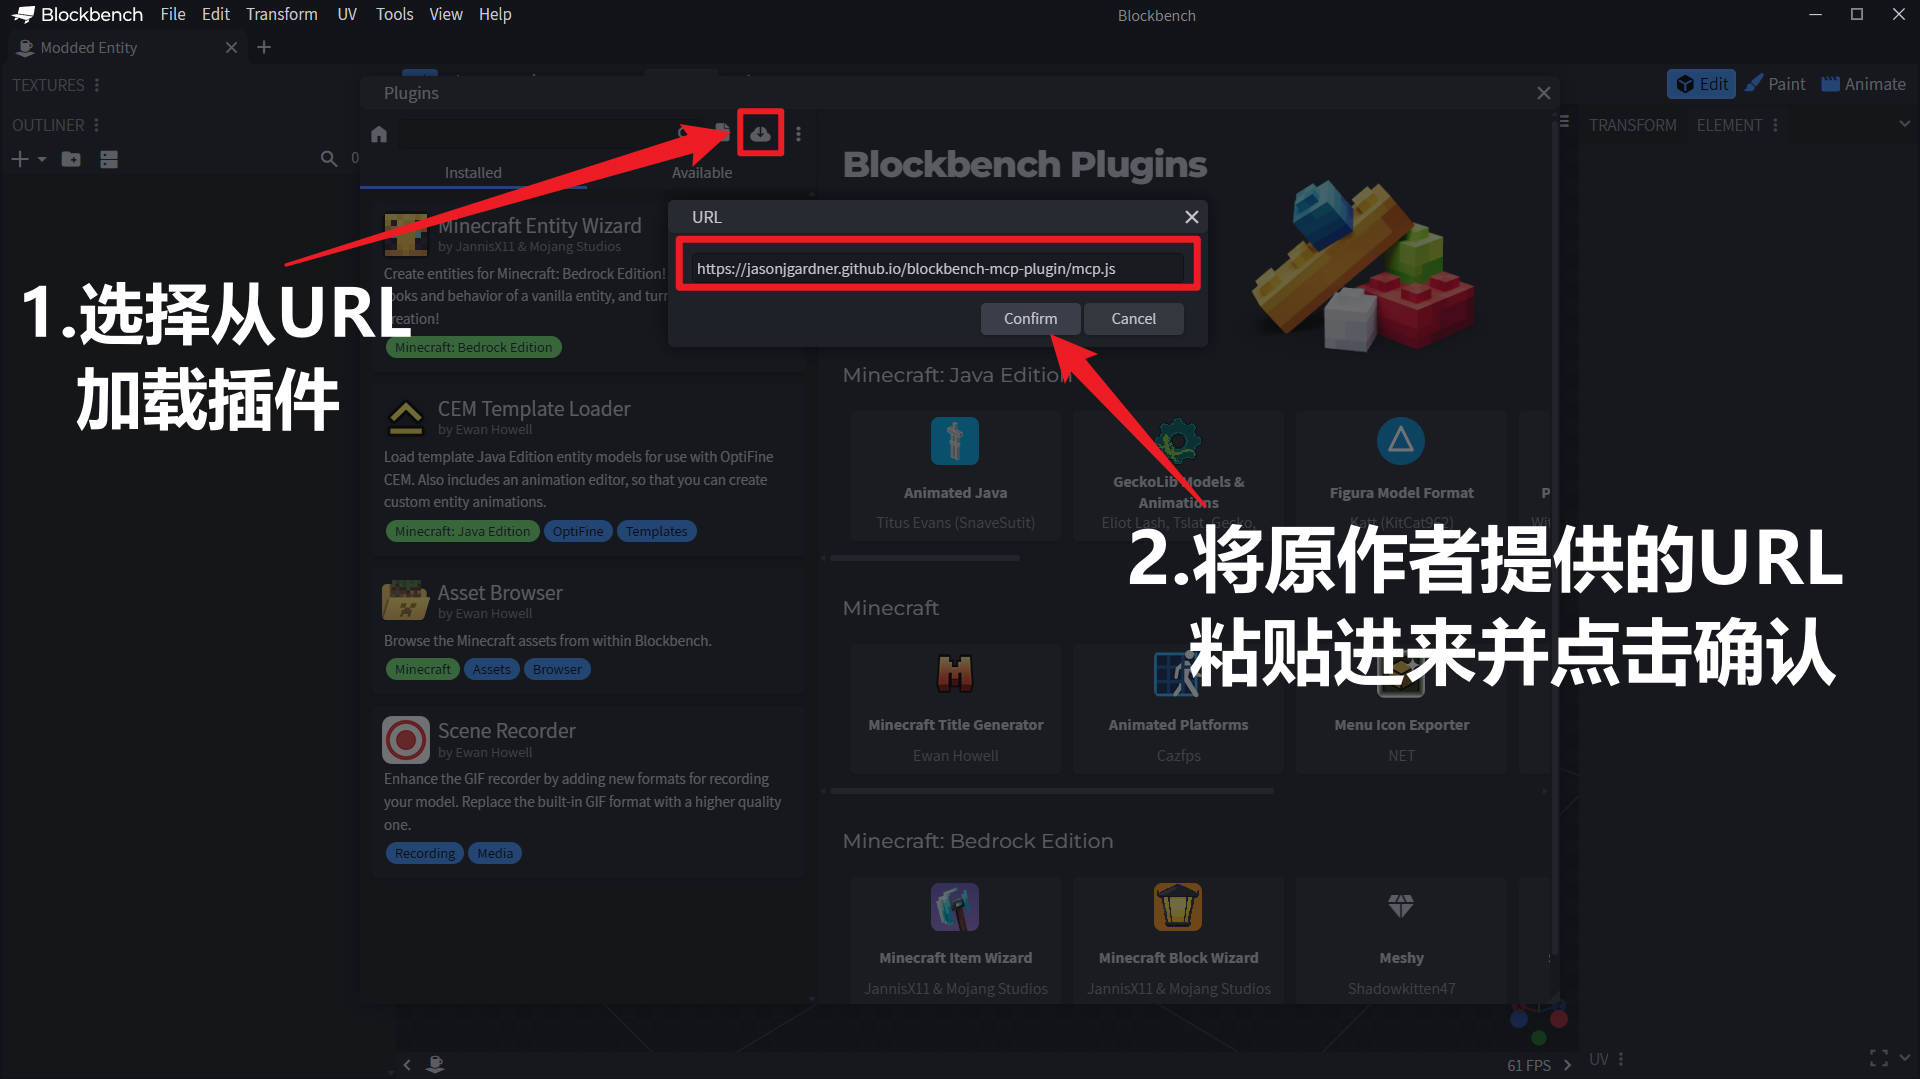
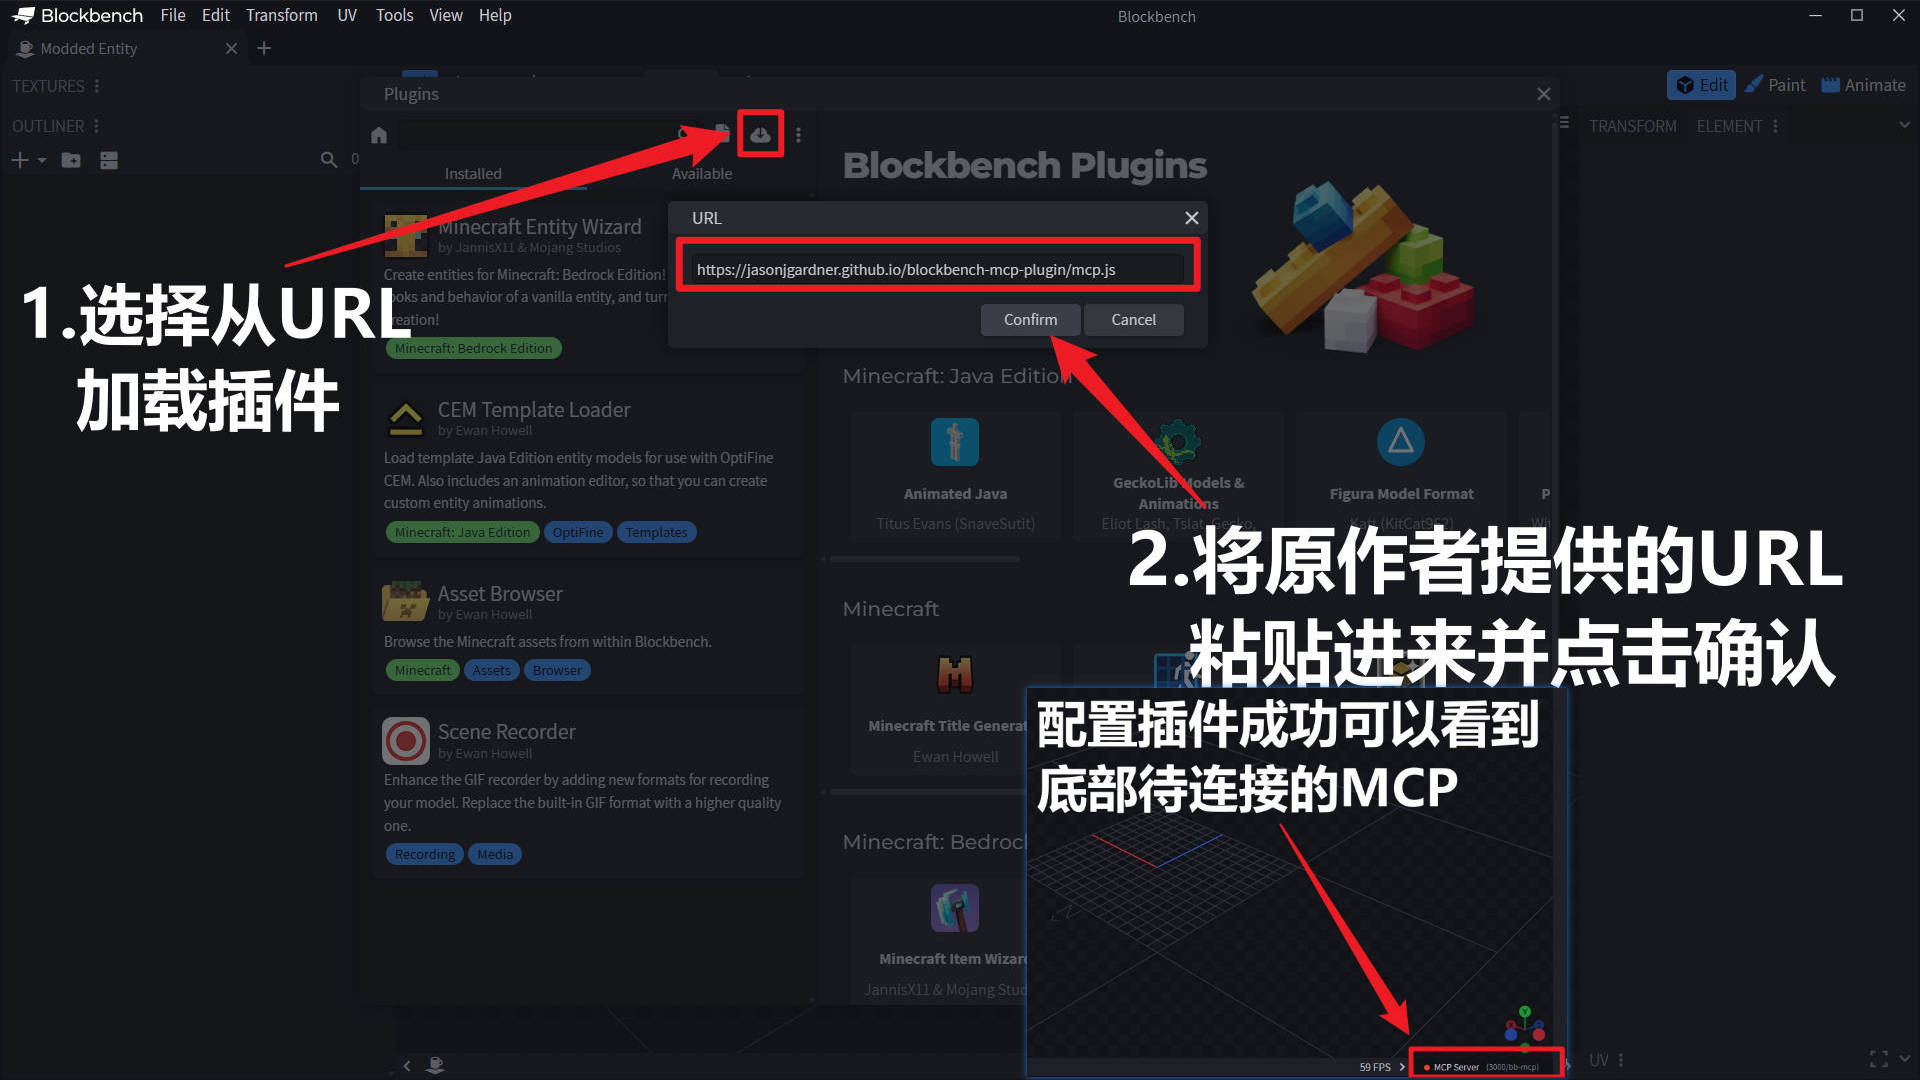
feat: 更新MCP步骤图

diff --git a/model.html b/model.html
@@ -141,84 +141,84 @@
 
                 <div class="step-grid" aria-label="MCP 配置步骤图">
                     <article class="step-card">
-                        <button type="button" data-preview-src="assets/images/model-mcp/step-0.jpg" data-preview-title="01 加载 Blockbench 插件" data-preview-copy-target="copyStepPlugin">
-                            <img src="assets/images/model-mcp/step-0.jpg" alt="加载 Blockbench MCP 插件">
+                        <button type="button" data-preview-src="assets/images/model-mcp/step-0.jpg?v=20260517a" data-preview-title="01 从 URL 加载 Blockbench 插件" data-preview-copy-target="copyStepPlugin">
+                            <img src="assets/images/model-mcp/step-0.jpg?v=20260517a" alt="加载 Blockbench MCP 插件">
                         </button>
                         <span>01</span>
                         <h3 data-i18n="steps.one.title">从 URL 加载插件</h3>
-                        <p data-i18n="steps.one.desc">Blockbench 里打开 Plugins，粘贴原作者提供的插件 URL。</p>
+                        <p data-i18n="steps.one.desc">Blockbench 里从 URL 加载插件，粘贴原作者提供的地址并确认。</p>
                     </article>
                     <article class="step-card">
-                        <button type="button" data-preview-src="assets/images/model-mcp/step-1.jpg" data-preview-title="02 确认插件启动">
-                            <img src="assets/images/model-mcp/step-1.jpg" alt="Blockbench MCP 插件状态">
+                        <button type="button" data-preview-src="assets/images/model-mcp/step-1.jpg?v=20260517a" data-preview-title="02 下载 Trae 国际版">
+                            <img src="assets/images/model-mcp/step-1.jpg?v=20260517a" alt="Trae 国际版下载页面">
                         </button>
                         <span>02</span>
-                        <h3 data-i18n="steps.two.title">看到 MCP 状态</h3>
-                        <p data-i18n="steps.two.desc">插件加载后，Blockbench 底部会出现 MCP 状态。</p>
+                        <h3 data-i18n="steps.two.title">下载 Trae 国际版</h3>
+                        <p data-i18n="steps.two.desc">进入 Trae 官网，点击 Download SOLO Desktop 下载桌面端。</p>
                     </article>
                     <article class="step-card">
-                        <button type="button" data-preview-src="assets/images/model-mcp/step-2.jpg" data-preview-title="03 下载 Node.js">
-                            <img src="assets/images/model-mcp/step-2.jpg" alt="Node.js 下载页面">
+                        <button type="button" data-preview-src="assets/images/model-mcp/step-2.jpg?v=20260517a" data-preview-title="03 下载 Node.js">
+                            <img src="assets/images/model-mcp/step-2.jpg?v=20260517a" alt="Node.js 下载页面">
                         </button>
                         <span>03</span>
                         <h3 data-i18n="steps.three.title">下载安装 Node.js</h3>
-                        <p data-i18n="steps.three.desc">选择 Windows Installer，不要选需要手动配置的压缩包。</p>
+                        <p data-i18n="steps.three.desc">下载 Windows Installer，双击安装时一路点击下一步即可。</p>
                     </article>
                     <article class="step-card">
-                        <button type="button" data-preview-src="assets/images/model-mcp/step-2-5.jpg" data-preview-title="04 下载 Trae">
-                            <img src="assets/images/model-mcp/step-2-5.jpg" alt="Trae 下载页面">
+                        <button type="button" data-preview-src="assets/images/model-mcp/step-2-5.jpg?v=20260517a" data-preview-title="04 登录 Trae 并切到 Code">
+                            <img src="assets/images/model-mcp/step-2-5.jpg?v=20260517a" alt="登录 Trae 并切换到 Code">
                         </button>
                         <span>04</span>
-                        <h3 data-i18n="steps.four.title">下载安装 Trae</h3>
-                        <p data-i18n="steps.four.desc">优先国际版；不方便就用国内版下载入口。</p>
+                        <h3 data-i18n="steps.four.title">登录并切到 Code</h3>
+                        <p data-i18n="steps.four.desc">打开 Trae 后先登录账号，再点击左上角切换到 Code 模式。</p>
                     </article>
                     <article class="step-card">
-                        <button type="button" data-preview-src="assets/images/model-mcp/step-3.jpg" data-preview-title="05 验证 node npm npx" data-preview-copy-target="copyStepNode">
-                            <img src="assets/images/model-mcp/step-3.jpg" alt="验证 node npm npx 命令">
+                        <button type="button" data-preview-src="assets/images/model-mcp/step-3.jpg?v=20260517a" data-preview-title="05 打开项目文件夹">
+                            <img src="assets/images/model-mcp/step-3.jpg?v=20260517a" alt="Trae 打开项目文件夹">
                         </button>
                         <span>05</span>
-                        <h3 data-i18n="steps.five.title">验证三个命令</h3>
-                        <p data-i18n="steps.five.desc">三个都有版本号，才说明 Node 安装成功。</p>
+                        <h3 data-i18n="steps.five.title">打开项目文件夹</h3>
+                        <p data-i18n="steps.five.desc">点击选择文件夹，打开你的懒人包或模组项目目录。</p>
                     </article>
                     <article class="step-card">
-                        <button type="button" data-preview-src="assets/images/model-mcp/step-4.jpg" data-preview-title="06 打开 Trae MCP 设置">
-                            <img src="assets/images/model-mcp/step-4.jpg" alt="Trae MCP 设置入口">
+                        <button type="button" data-preview-src="assets/images/model-mcp/step-4.jpg?v=20260517a" data-preview-title="06 验证 node npm npx" data-preview-copy-target="copyStepNode">
+                            <img src="assets/images/model-mcp/step-4.jpg?v=20260517a" alt="验证 node npm npx 命令">
                         </button>
                         <span>06</span>
-                        <h3 data-i18n="steps.six.title">打开 Trae MCP 设置</h3>
-                        <p data-i18n="steps.six.desc">进入设置里的 MCP Servers 区域。</p>
+                        <h3 data-i18n="steps.six.title">验证三个命令</h3>
+                        <p data-i18n="steps.six.desc">在终端输入 node -v、npm -v、npx -v，三个都输出版本号就成功。</p>
                     </article>
                     <article class="step-card">
-                        <button type="button" data-preview-src="assets/images/model-mcp/step-5.jpg" data-preview-title="07 进入手动配置">
-                            <img src="assets/images/model-mcp/step-5.jpg" alt="Trae MCP 手动配置">
+                        <button type="button" data-preview-src="assets/images/model-mcp/step-5.jpg?v=20260517a" data-preview-title="07 进入 MCP 手动配置">
+                            <img src="assets/images/model-mcp/step-5.jpg?v=20260517a" alt="Trae MCP 设置与手动配置入口">
                         </button>
                         <span>07</span>
-                        <h3 data-i18n="steps.seven.title">选择手动配置</h3>
-                        <p data-i18n="steps.seven.desc">不要乱填，后面直接粘贴配置文件。</p>
+                        <h3 data-i18n="steps.seven.title">进入 MCP 手动配置</h3>
+                        <p data-i18n="steps.seven.desc">打开设置里的 MCP 页面，点击添加并选择手动配置。</p>
                     </article>
                     <article class="step-card">
-                        <button type="button" data-preview-src="assets/images/model-mcp/step-6.jpg" data-preview-title="08 粘贴 MCP 配置" data-preview-copy-target="copyStepMcp">
-                            <img src="assets/images/model-mcp/step-6.jpg" alt="粘贴 MCP JSON 配置">
+                        <button type="button" data-preview-src="assets/images/model-mcp/step-6.jpg?v=20260517a" data-preview-title="08 粘贴 MCP 配置" data-preview-copy-target="copyStepMcp">
+                            <img src="assets/images/model-mcp/step-6.jpg?v=20260517a" alt="粘贴 MCP JSON 配置">
                         </button>
                         <span>08</span>
                         <h3 data-i18n="steps.eight.title">粘贴配置并确认</h3>
-                        <p data-i18n="steps.eight.desc">点开这张图后，直接复制配置内容。</p>
+                        <p data-i18n="steps.eight.desc">把 MCP JSON 全部粘贴进输入框，检查无误后点击确认。</p>
                     </article>
                     <article class="step-card">
-                        <button type="button" data-preview-src="assets/images/model-mcp/step-7.png" data-preview-title="09 让 Trae 访问 Blockbench" data-preview-copy-target="copyStepVerify">
-                            <img src="assets/images/model-mcp/step-7.png" alt="让 Trae 验证访问 Blockbench">
+                        <button type="button" data-preview-src="assets/images/model-mcp/step-7.png?v=20260517a" data-preview-title="09 确认 MCP 配置成功">
+                            <img src="assets/images/model-mcp/step-7.png?v=20260517a" alt="Trae MCP 配置成功">
                         </button>
                         <span>09</span>
-                        <h3 data-i18n="steps.nine.title">验证连接</h3>
-                        <p data-i18n="steps.nine.desc">先让它放一个方块，不要直接做复杂模型。</p>
+                        <h3 data-i18n="steps.nine.title">看到绿色勾</h3>
+                        <p data-i18n="steps.nine.desc">blockbench 后面出现绿色勾就说明配置成功，失败就点重试。</p>
                     </article>
                     <article class="step-card">
-                        <button type="button" data-preview-src="assets/images/model-mcp/step-8.jpg" data-preview-title="10 方块出现在 Blockbench">
-                            <img src="assets/images/model-mcp/step-8.jpg" alt="Blockbench 出现方块">
+                        <button type="button" data-preview-src="assets/images/model-mcp/step-8.jpg?v=20260517a" data-preview-title="10 重启 Trae 后验证连接" data-preview-copy-target="copyStepVerify">
+                            <img src="assets/images/model-mcp/step-8.jpg?v=20260517a" alt="重启 Trae 后让 Trae 验证访问 Blockbench">
                         </button>
                         <span>10</span>
-                        <h3 data-i18n="steps.ten.title">方块出现就成功</h3>
-                        <p data-i18n="steps.ten.desc">看到方块后，再开始让 AI 做你的模型。</p>
+                        <h3 data-i18n="steps.ten.title">重启后验证连接</h3>
+                        <p data-i18n="steps.ten.desc">建议先关闭并重新打开 Trae，再让它通过 MCP 放一个方块。</p>
                     </article>
                 </div>
 
@@ -352,6 +352,6 @@ npx -v</pre>
     <div class="toast" id="toast" aria-live="polite"></div>
 
     <script src="js/snail-gltf.js?v=20260516d"></script>
-    <script src="js/model.js?v=20260516g"></script>
+    <script src="js/model.js?v=20260517a"></script>
 </body>
 </html>

diff --git a/js/model.js b/js/model.js
@@ -47,25 +47,25 @@ const MODEL_I18N = {
         "commands.config.title": "Trae MCP 配置",
         "common.copy": "复制",
         "steps.one.title": "从 URL 加载插件",
-        "steps.one.desc": "Blockbench 里打开 Plugins，粘贴原作者提供的插件 URL。",
-        "steps.two.title": "看到 MCP 状态",
-        "steps.two.desc": "插件加载后，Blockbench 底部会出现 MCP 状态。",
+        "steps.one.desc": "Blockbench 里从 URL 加载插件，粘贴原作者提供的地址并确认。",
+        "steps.two.title": "下载 Trae 国际版",
+        "steps.two.desc": "进入 Trae 官网，点击 Download SOLO Desktop 下载桌面端。",
         "steps.three.title": "下载安装 Node.js",
-        "steps.three.desc": "选择 Windows Installer，不要选需要手动配置的压缩包。",
-        "steps.four.title": "下载安装 Trae",
-        "steps.four.desc": "优先国际版；不方便就用国内版下载入口。",
-        "steps.five.title": "验证三个命令",
-        "steps.five.desc": "三个都有版本号，才说明 Node 安装成功。",
-        "steps.six.title": "打开 Trae MCP 设置",
-        "steps.six.desc": "进入设置里的 MCP Servers 区域。",
-        "steps.seven.title": "选择手动配置",
-        "steps.seven.desc": "不要乱填，后面直接粘贴配置文件。",
+        "steps.three.desc": "下载 Windows Installer，双击安装时一路点击下一步即可。",
+        "steps.four.title": "登录并切到 Code",
+        "steps.four.desc": "打开 Trae 后先登录账号，再点击左上角切换到 Code 模式。",
+        "steps.five.title": "打开项目文件夹",
+        "steps.five.desc": "点击选择文件夹，打开你的懒人包或模组项目目录。",
+        "steps.six.title": "验证三个命令",
+        "steps.six.desc": "在终端输入 node -v、npm -v、npx -v，三个都输出版本号就成功。",
+        "steps.seven.title": "进入 MCP 手动配置",
+        "steps.seven.desc": "打开设置里的 MCP 页面，点击添加并选择手动配置。",
         "steps.eight.title": "粘贴配置并确认",
-        "steps.eight.desc": "点开这张图后，直接复制配置内容。",
-        "steps.nine.title": "验证连接",
-        "steps.nine.desc": "先让它放一个方块，不要直接做复杂模型。",
-        "steps.ten.title": "方块出现就成功",
-        "steps.ten.desc": "看到方块后，再开始让 AI 做你的模型。",
+        "steps.eight.desc": "把 MCP JSON 全部粘贴进输入框，检查无误后点击确认。",
+        "steps.nine.title": "看到绿色勾",
+        "steps.nine.desc": "blockbench 后面出现绿色勾就说明配置成功，失败就点重试。",
+        "steps.ten.title": "重启后验证连接",
+        "steps.ten.desc": "建议先关闭并重新打开 Trae，再让它通过 MCP 放一个方块。",
         "verify.kicker": "连接验证",
         "verify.title": "验证 AI 是否连上 Blockbench",
         "verify.desc": "方块能被放进 Blockbench，说明连接链路是通的。",
@@ -148,25 +148,25 @@ const MODEL_I18N = {
         "commands.config.title": "Trae MCP 配置",
         "common.copy": "複製",
         "steps.one.title": "從 URL 載入插件",
-        "steps.one.desc": "Blockbench 裡打開 Plugins，貼上原作者提供的插件 URL。",
-        "steps.two.title": "看到 MCP 狀態",
-        "steps.two.desc": "插件載入後，Blockbench 底部會出現 MCP 狀態。",
+        "steps.one.desc": "Blockbench 裡從 URL 載入插件，貼上原作者提供的地址並確認。",
+        "steps.two.title": "下載 Trae 國際版",
+        "steps.two.desc": "進入 Trae 官網，點擊 Download SOLO Desktop 下載桌面端。",
         "steps.three.title": "下載安裝 Node.js",
-        "steps.three.desc": "選擇 Windows Installer，不要選需要手動配置的壓縮包。",
-        "steps.four.title": "下載安裝 Trae",
-        "steps.four.desc": "優先國際版；不方便就用國內版下載入口。",
-        "steps.five.title": "驗證三個命令",
-        "steps.five.desc": "三個都有版本號，才說明 Node 安裝成功。",
-        "steps.six.title": "打開 Trae MCP 設置",
-        "steps.six.desc": "進入設置裡的 MCP Servers 區域。",
-        "steps.seven.title": "選擇手動配置",
-        "steps.seven.desc": "不要亂填，後面直接貼上配置文件。",
+        "steps.three.desc": "下載 Windows Installer，雙擊安裝時一路點擊下一步即可。",
+        "steps.four.title": "登入並切到 Code",
+        "steps.four.desc": "打開 Trae 後先登入帳號，再點擊左上角切換到 Code 模式。",
+        "steps.five.title": "打開項目文件夾",
+        "steps.five.desc": "點擊選擇文件夾，打開你的懶人包或模組項目目錄。",
+        "steps.six.title": "驗證三個命令",
+        "steps.six.desc": "在終端輸入 node -v、npm -v、npx -v，三個都輸出版本號就成功。",
+        "steps.seven.title": "進入 MCP 手動配置",
+        "steps.seven.desc": "打開設置裡的 MCP 頁面，點擊添加並選擇手動配置。",
         "steps.eight.title": "貼上配置並確認",
-        "steps.eight.desc": "點開這張圖後，直接複製配置內容。",
-        "steps.nine.title": "驗證連接",
-        "steps.nine.desc": "先讓它放一個方塊，不要直接做複雜模型。",
-        "steps.ten.title": "方塊出現就成功",
-        "steps.ten.desc": "看到方塊後，再開始讓 AI 做你的模型。",
+        "steps.eight.desc": "把 MCP JSON 全部貼上進輸入框，檢查無誤後點擊確認。",
+        "steps.nine.title": "看到綠色勾",
+        "steps.nine.desc": "blockbench 後面出現綠色勾就說明配置成功，失敗就點重試。",
+        "steps.ten.title": "重啟後驗證連接",
+        "steps.ten.desc": "建議先關閉並重新打開 Trae，再讓它通過 MCP 放一個方塊。",
         "verify.kicker": "連接驗證",
         "verify.title": "驗證 AI 是否連上 Blockbench",
         "verify.desc": "方塊能被放進 Blockbench，說明連接鏈路是通的。",
@@ -249,25 +249,25 @@ const MODEL_I18N = {
         "commands.config.title": "Trae MCP config",
         "common.copy": "Copy",
         "steps.one.title": "Load plugin from URL",
-        "steps.one.desc": "Open Plugins in Blockbench and paste the plugin URL from the original project.",
-        "steps.two.title": "Check MCP status",
-        "steps.two.desc": "After loading, the MCP status appears at the bottom of Blockbench.",
+        "steps.one.desc": "Load the plugin from URL in Blockbench, paste the original project URL, and confirm.",
+        "steps.two.title": "Download Trae international",
+        "steps.two.desc": "Open the Trae website and click Download SOLO Desktop.",
         "steps.three.title": "Install Node.js",
-        "steps.three.desc": "Choose Windows Installer, not the zip package.",
-        "steps.four.title": "Install Trae",
-        "steps.four.desc": "Use the international version first. Use the China download if needed.",
-        "steps.five.title": "Verify three commands",
-        "steps.five.desc": "All three must print version numbers.",
-        "steps.six.title": "Open Trae MCP settings",
-        "steps.six.desc": "Go to the MCP Servers area in settings.",
-        "steps.seven.title": "Choose manual config",
-        "steps.seven.desc": "Do not fill random fields. Paste the config next.",
+        "steps.three.desc": "Download Windows Installer, run it, and keep clicking Next through the installer.",
+        "steps.four.title": "Log in and switch to Code",
+        "steps.four.desc": "After opening Trae, log in first, then switch to Code mode from the top left.",
+        "steps.five.title": "Open your project folder",
+        "steps.five.desc": "Click Select Folder and open your lazy pack or mod project directory.",
+        "steps.six.title": "Verify three commands",
+        "steps.six.desc": "Run node -v, npm -v, and npx -v in the terminal. All three should print versions.",
+        "steps.seven.title": "Open manual MCP config",
+        "steps.seven.desc": "Open the MCP settings page, click Add, then choose manual config.",
         "steps.eight.title": "Paste config and confirm",
-        "steps.eight.desc": "Open this image, then copy the config from the modal.",
-        "steps.nine.title": "Verify connection",
-        "steps.nine.desc": "Ask it to place one cube before trying a complex model.",
-        "steps.ten.title": "Cube means success",
-        "steps.ten.desc": "Once the cube appears, start your real model.",
+        "steps.eight.desc": "Paste the full MCP JSON into the input box, check it, then confirm.",
+        "steps.nine.title": "Look for the green check",
+        "steps.nine.desc": "A green check after blockbench means the config worked. If it fails, retry.",
+        "steps.ten.title": "Restart and verify",
+        "steps.ten.desc": "Close and reopen Trae first, then ask it to place one cube through MCP.",
         "verify.kicker": "Connection Check",
         "verify.title": "Check whether AI can reach Blockbench",
         "verify.desc": "If the cube appears in Blockbench, the connection is working.",
